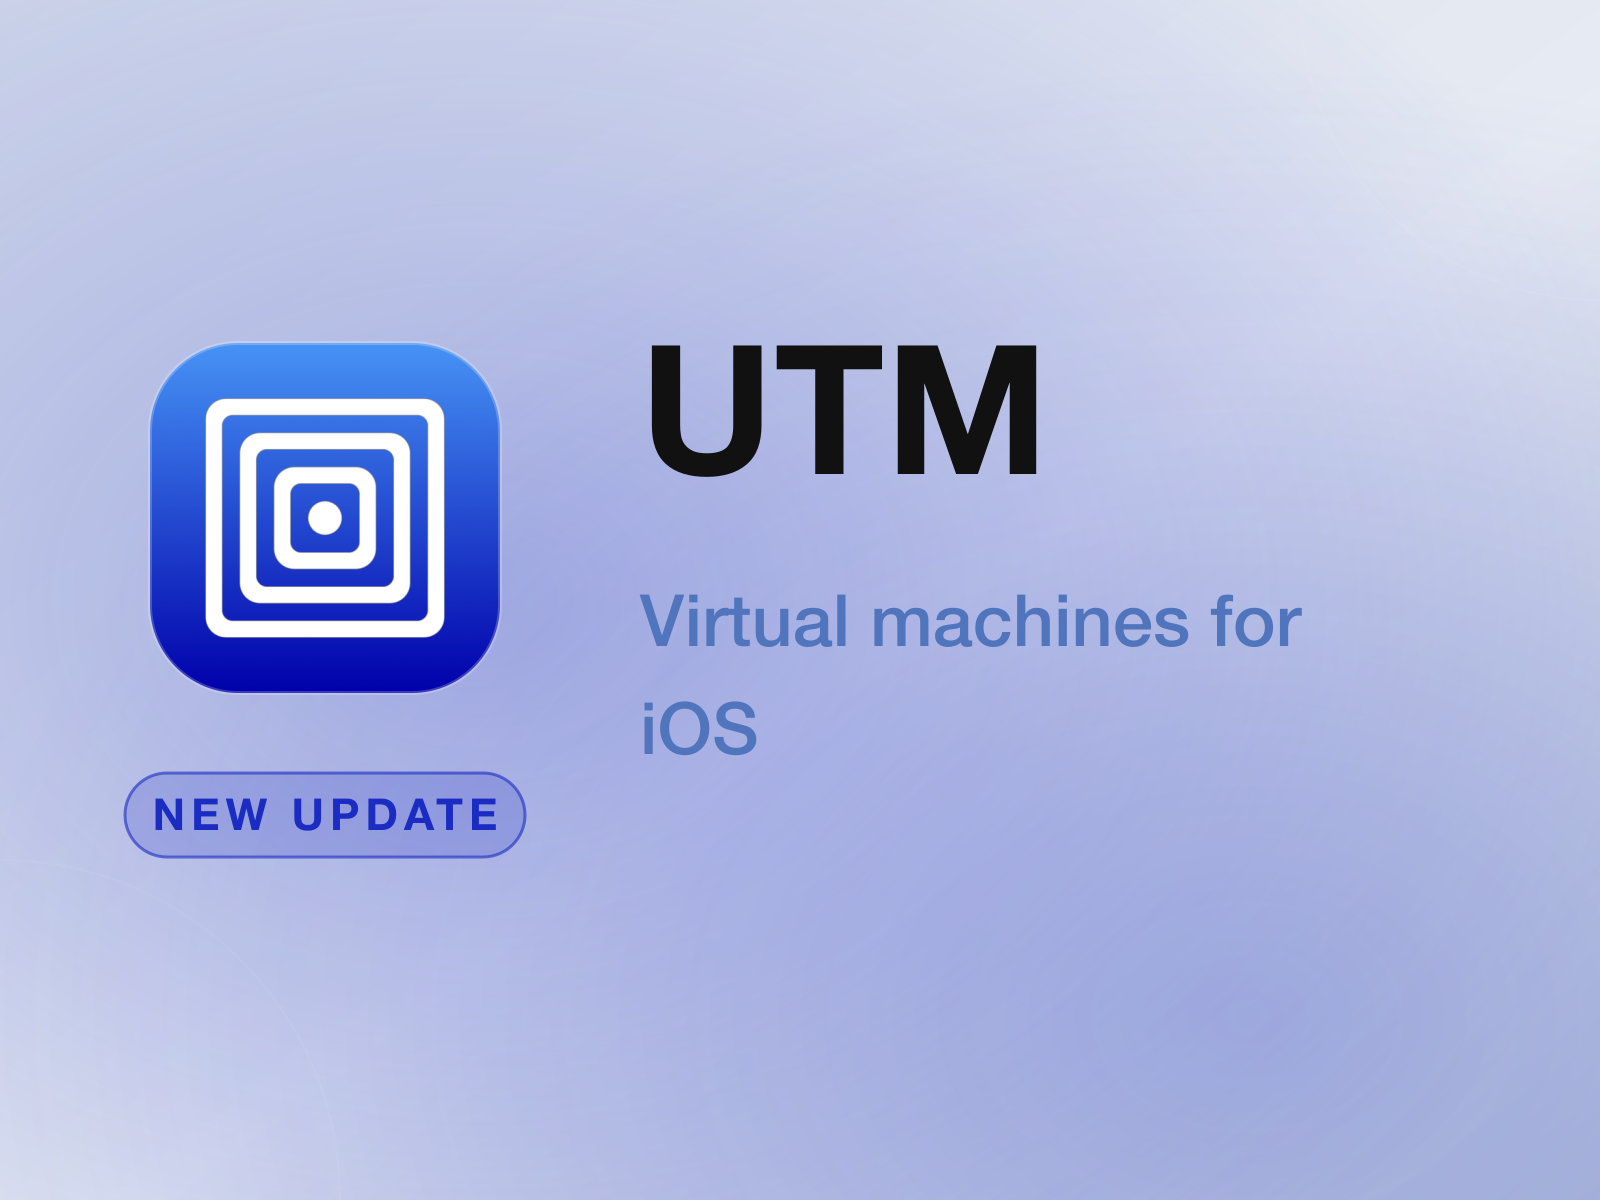
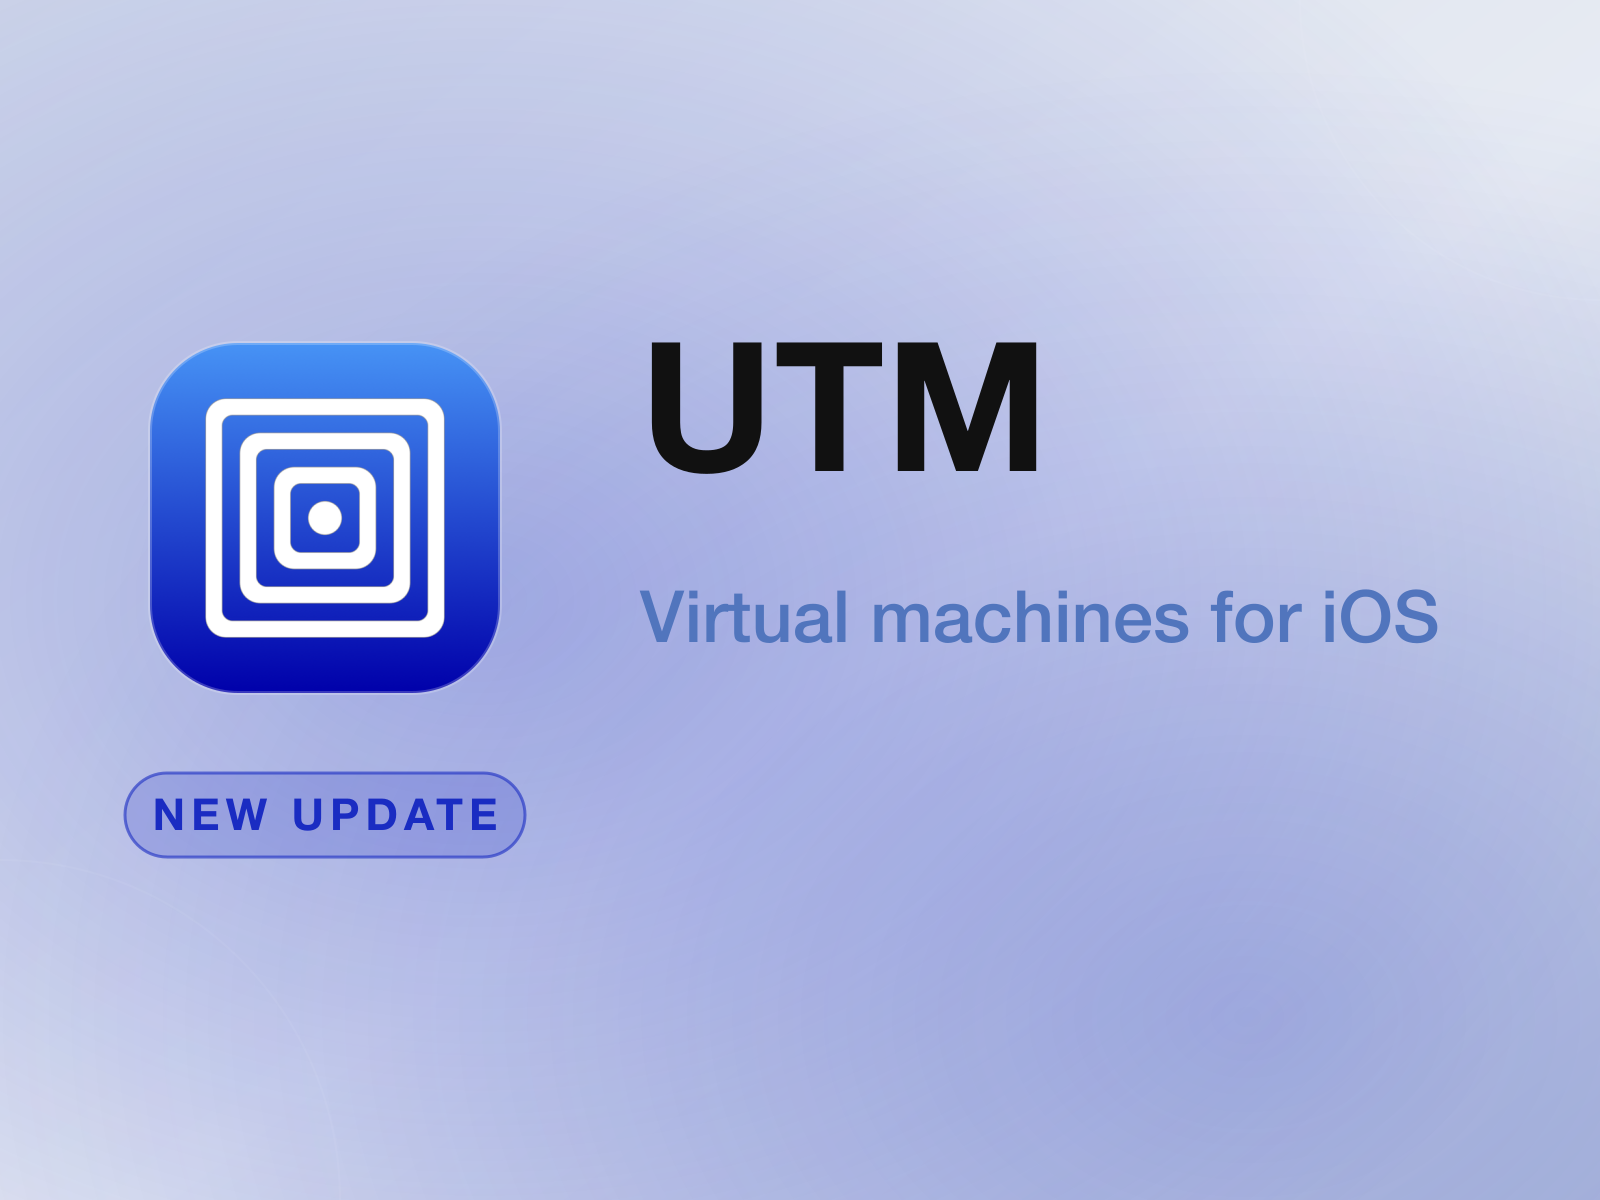
Fix news.png

diff --git a/.claude/skills/add-app/SKILL.md b/.claude/skills/add-app/SKILL.md
@@ -56,11 +56,15 @@ sections.
 5. **Write `news.toml`** (`name`, `tagline`, optional `[colors]`), then
    render the shared promo image (AGENTS.md → [Generating News Images]):
    ```bash
-   python3 templates/render_news.py --out apps/<AppName>
+   ./.venv/bin/python templates/render_news.py --out apps/<AppName>
    ```
    Renders `apps/<AppName>/images/news.png` (1600x1200, 4:3) into the working
    tree (do not auto-commit). Requires `rsvg-convert` (librsvg) or falls back
-   to macOS Quick Look.
+   to macOS Quick Look. ⚠ **Use the venv interpreter** (same as
+   `update_news.sh`): bare `python3` has no Pillow, so `render_news.py`
+   silently falls back to estimate-based text metrics — the name's vertical
+   position and tagline wrapping differ from the measured layout, producing a
+   `news.png` that doesn't match what `./update_news.sh` renders.
 
 6. **Generate `apps.json`** — **never hand-edit it**:
    ```bash
